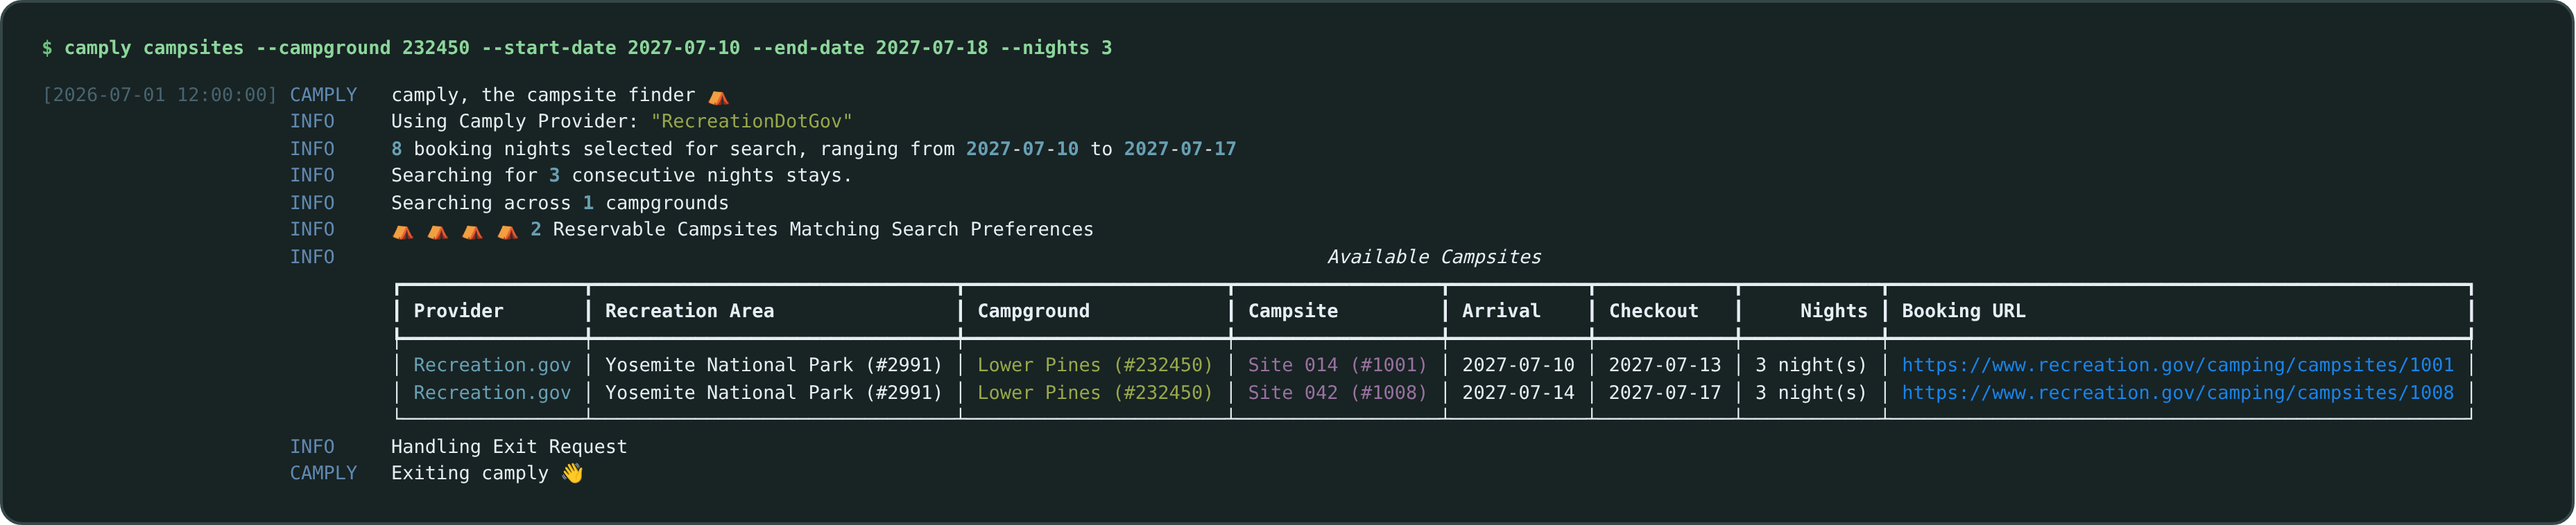
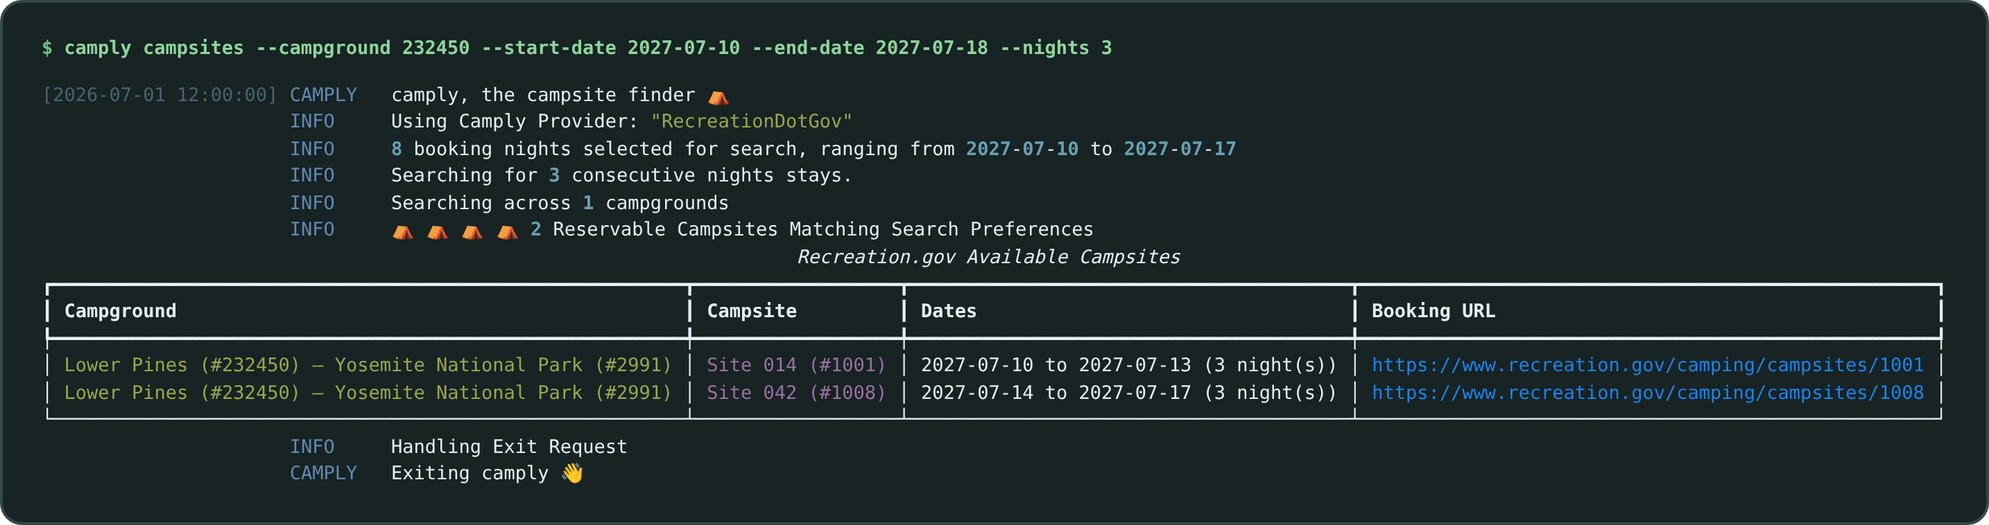
🎨 (cli): Print compact Rich result tables without log prefixes

diff --git a/src/frontend/tooling/verify-cli-snapshots.ts b/src/frontend/tooling/verify-cli-snapshots.ts
@@ -199,29 +199,29 @@ scenarios = [
         "name": "cli-providers",
         "command": "camply providers",
         "description": "Rich CLI provider catalog table and welcome/exit banners",
-        "html": capture(128, run_providers),
-        "expectedText": ["camply, the campsite finder", "Camping Providers", "RecreationDotGov", "Exiting camply"],
+        "html": capture(112, run_providers),
+        "expectedText": ["camply, the campsite finder", "Camping Providers", "RecreationDotGov (Recreation.gov)", "Exiting camply"],
     },
     {
         "name": "cli-discovery",
         "command": "camply campgrounds --rec-area 2991",
         "description": "Rich CLI campground discovery logs and results table",
-        "html": capture(148, run_discovery),
-        "expectedText": ["Using Camply Provider", "3 Matching Campgrounds Found", "Campgrounds", "Upper Pines", "Lower Pines"],
+        "html": capture(130, run_discovery),
+        "expectedText": ["Using Camply Provider", "3 Matching Campgrounds Found", "Recreation.gov Campgrounds", "Upper Pines", "Lower Pines"],
     },
     {
         "name": "cli-campsites",
         "command": "camply campsites --campground 232450 --start-date 2027-07-10 --end-date 2027-07-18 --nights 3",
         "description": "Rich CLI campsite availability logs and stays table",
-        "html": capture(172, run_campsites),
-        "expectedText": ["8 booking nights selected", "2 Reservable Campsites Matching Search Preferences", "Available Campsites", "Site 014", "Handling Exit Request"],
+        "html": capture(148, run_campsites),
+        "expectedText": ["8 booking nights selected", "2 Reservable Campsites Matching Search Preferences", "Recreation.gov Available Campsites", "Site 014", "Handling Exit Request"],
     },
     {
         "name": "cli-debug",
         "command": "camply --debug recreation-areas --search Yosemite --state CA",
         "description": "Rich CLI debug diagnostics and recreation area discovery table",
-        "html": capture(140, run_debug),
-        "expectedText": ["Setting up camply debugging", "Camply Version: 0.1.0", "Recreation Areas", "Yosemite National Park"],
+        "html": capture(112, run_debug),
+        "expectedText": ["Setting up camply debugging", "Camply Version: 0.1.0", "Recreation.gov Recreation Areas", "Yosemite National Park"],
     },
 ]
 print(json.dumps(scenarios))

diff --git a/src/camply/cli/output.py b/src/camply/cli/output.py
@@ -1,7 +1,6 @@
-"""Configure Rich CLI logging and render discovery and availability tables."""
+"""Configure Rich CLI logging and print discovery and availability tables."""
 
 import asyncio
-import io
 import logging
 import os
 import sys
@@ -10,7 +9,7 @@ from typing import TYPE_CHECKING
 
 import click
 import rich.traceback
-from rich.console import Console, ConsoleRenderable
+from rich.console import Console
 from rich.logging import RichHandler
 from rich.measure import Measurement
 from rich.table import Table
@@ -35,7 +34,7 @@ _DEFAULT_HEIGHT = 25
 
 
 class CamplyRichHandler(RichHandler):
-    """Rich logging handler that renders Rich tables and custom CAMPLY log levels."""
+    """Rich logging handler that styles custom CAMPLY log levels and prevents truncation."""
 
     def get_level_text(self, record: logging.LogRecord) -> Text:
         """Render the custom CAMPLY level with standard Rich info styling."""
@@ -43,30 +42,16 @@ class CamplyRichHandler(RichHandler):
             return Text.styled(record.levelname.ljust(8), "logging.level.info")
         return super().get_level_text(record)
 
-    def render_message(
-        self, record: logging.LogRecord, message: str
-    ) -> ConsoleRenderable:
-        """Pass Rich renderables such as Table through without string coercion."""
-        if isinstance(record.msg, ConsoleRenderable):
-            return record.msg
-        return super().render_message(record, message)
-
     def emit(self, record: logging.LogRecord) -> None:
-        """Ensure tables and non-interactive logs are not truncated at 80 columns."""
-        renderable = (
-            record.msg
-            if isinstance(record.msg, ConsoleRenderable)
-            else self.render_message(record, self.format(record))
-        )
+        """Ensure non-interactive logs are not wrapped or truncated at 80 columns."""
+        renderable = self.render_message(record, self.format(record))
         probe = self.console.options.update_width(_PROBE_WIDTH)
         needed = (
             Measurement.get(self.console, probe, renderable).maximum + _LOG_PREFIX_WIDTH
         )
         old_width, old_height = self.console._width, self.console._height
         if (
-            not self.console.is_terminal
-            or self.console.is_dumb_terminal
-            or isinstance(record.msg, ConsoleRenderable)
+            not self.console.is_terminal or self.console.is_dumb_terminal
         ) and self.console.width < needed:
             self.console._width = needed
             self.console._height = old_height or _DEFAULT_HEIGHT
@@ -77,37 +62,33 @@ class CamplyRichHandler(RichHandler):
                 self.console._width, self.console._height = old_width, old_height
 
 
-class CamplyPythonFormatter(logging.Formatter):
-    """Plain Python formatter that renders Rich tables when CAMPLY_LOG_HANDLER=python."""
-
-    def format(self, record: logging.LogRecord) -> str:
-        """Format standard messages or render Rich tables into plain text."""
-        if isinstance(record.msg, ConsoleRenderable):
-            buffer = io.StringIO()
-            probe_console = Console(file=buffer, no_color=True, highlight=False)
-            needed = Measurement.get(
-                probe_console,
-                probe_console.options.update_width(_PROBE_WIDTH),
-                record.msg,
-            ).maximum
-            render_console = Console(
-                file=buffer,
-                width=max(80, needed),
-                height=_DEFAULT_HEIGHT,
-                no_color=True,
-                highlight=False,
-            )
-            render_console.print(record.msg)
-            copied = logging.makeLogRecord(record.__dict__)
-            copied.msg = "\n" + buffer.getvalue().rstrip("\n")
-            copied.args = ()
-            return super().format(copied)
-        return super().format(record)
-
-
 def log_camply(message: str, *args: object) -> None:
     """Log a message at the custom CAMPLY notification level."""
     logger.log(CAMPLY_LOG_LEVEL, message, *args)
+
+
+def _stdout_console() -> Console:
+    """Return the active stdout Rich console or a plain stdout console fallback."""
+    for handler in logger.handlers:
+        if isinstance(handler, CamplyRichHandler) and not handler.console.stderr:
+            return handler.console
+    return Console(stderr=False, no_color=True, highlight=False)
+
+
+def print_table(table: Table) -> None:
+    """Print a Rich table directly to stdout without logging prefixes or truncation."""
+    console = _stdout_console()
+    probe = console.options.update_width(_PROBE_WIDTH)
+    needed = Measurement.get(console, probe, table).maximum
+    old_width, old_height = console._width, console._height
+    if console.width < needed:
+        console._width = needed
+        console._height = old_height or _DEFAULT_HEIGHT
+    try:
+        console.print(table)
+    finally:
+        if not console.record:
+            console._width, console._height = old_width, old_height
 
 
 def set_up_logging(*, debug: bool = False) -> logging.Logger:
@@ -124,7 +105,7 @@ def set_up_logging(*, debug: bool = False) -> logging.Logger:
         )
     handler_mode = os.environ.get("CAMPLY_LOG_HANDLER", "rich").strip().lower()
     if handler_mode == "python":
-        formatter: logging.Formatter = CamplyPythonFormatter(
+        formatter: logging.Formatter = logging.Formatter(
             "%(asctime)s [%(levelname)8s]: %(message)s"
         )
         stdout_handler: logging.Handler = logging.StreamHandler(sys.stdout)
@@ -187,14 +168,19 @@ def _format_parent(name: str | None, identifier: str | None) -> str:
     return ""
 
 
+def _format_location(name: str, city: str | None, state: str | None) -> str:
+    """Append concise city/state context to an entity name when available."""
+    place = ", ".join(value for value in (city, state) if value)
+    return f"{name} ({place})" if place else name
+
+
 def render_providers(
     entries: Mapping[str, tuple[type["BaseProvider"], "Provider"]],
 ) -> None:
-    """Log supported camping providers and capabilities in a Rich table."""
+    """Print supported camping providers and capabilities in a Rich table."""
     logger.info("camply currently supports %s providers:", len(entries))
     table = Table(title="Camping Providers")
     table.add_column("Provider", style="cyan", no_wrap=True)
-    table.add_column("Name", style="green", no_wrap=True)
     table.add_column("Capabilities", no_wrap=True)
     for name, (_, identity) in entries.items():
         areas = (
@@ -202,16 +188,16 @@ def render_providers(
             if name == "ReserveAmerica"
             else "recreation-area discovery"
         )
+        label = f"{name} ({identity.name})" if name != identity.name else name
         table.add_row(
-            name,
-            identity.name,
+            label,
             f"{areas}; campground discovery; campground availability",
         )
-    logger.info(table)
+    print_table(table)
 
 
 def render_discovery(results: Sequence[ProviderSearchResult], *, empty: str) -> None:
-    """Log unique discovery results to a Rich table and report display truncation."""
+    """Print unique discovery results in a Rich table and report display truncation."""
     ordered = sorted(
         {identity_key(result): result for result in results}.values(),
         key=identity_key,
@@ -220,53 +206,44 @@ def render_discovery(results: Sequence[ProviderSearchResult], *, empty: str) -> 
         logger.info(empty)
         return
     displayed = ordered[:DISPLAY_LIMIT]
+    provider_name = displayed[0].provider_name
     is_rec_area = all(
         result.entity_type == SearchEntityType.RECREATION_AREA for result in displayed
     )
     if is_rec_area:
         logger.info("%s recreation areas found.", len(displayed))
-        table = Table(title="Recreation Areas")
-        table.add_column("Provider", style="cyan", no_wrap=True)
+        table = Table(title=f"{provider_name} Recreation Areas")
         table.add_column("ID", style="magenta", no_wrap=True)
         table.add_column("Recreation Area", style="green", no_wrap=True)
-        table.add_column("Location", no_wrap=True)
         table.add_column("Booking URL", style="bright_blue", no_wrap=True)
         for result in displayed:
-            location = ", ".join(
-                value for value in (result.city, result.state, result.country) if value
-            )
             table.add_row(
-                result.provider_name,
                 result.recreation_area_id or "",
-                result.recreation_area_name or "",
-                location,
+                _format_location(
+                    result.recreation_area_name or "", result.city, result.state
+                ),
                 result.booking_url,
             )
     else:
         logger.info("%s Matching Campgrounds Found", len(displayed))
-        table = Table(title="Campgrounds")
-        table.add_column("Provider", style="cyan", no_wrap=True)
+        table = Table(title=f"{provider_name} Campgrounds")
         table.add_column("ID", style="magenta", no_wrap=True)
         table.add_column("Campground", style="green", no_wrap=True)
         table.add_column("Recreation Area", no_wrap=True)
-        table.add_column("Location", no_wrap=True)
         table.add_column("Booking URL", style="bright_blue", no_wrap=True)
         for result in displayed:
             rec_area = _format_parent(
                 result.recreation_area_name, result.recreation_area_id
             )
-            location = ", ".join(
-                value for value in (result.city, result.state, result.country) if value
-            )
             table.add_row(
-                result.provider_name,
                 result.campground_id or "",
-                result.campground_name or "",
+                _format_location(
+                    result.campground_name or "", result.city, result.state
+                ),
                 rec_area,
-                location,
                 result.booking_url,
             )
-    logger.info(table)
+    print_table(table)
     if len(ordered) > DISPLAY_LIMIT:
         logger.warning(
             "Showing 50 results; more results exist. Narrow --search or --state."
@@ -274,7 +251,7 @@ def render_discovery(results: Sequence[ProviderSearchResult], *, empty: str) -> 
 
 
 def render_stays(stays: list["AvailabilityStay"]) -> None:
-    """Log qualifying stays, provider identities and booking links in a Rich table."""
+    """Print qualifying stays and booking links in a Rich table."""
     emoji = "⛺" if stays else "❌"
     logger.info(
         "%s%s Reservable Campsites Matching Search Preferences",
@@ -284,14 +261,11 @@ def render_stays(stays: list["AvailabilityStay"]) -> None:
     if not stays:
         logger.info("No matching campsite stays found in this check.")
         return
-    table = Table(title="Available Campsites")
-    table.add_column("Provider", style="cyan", no_wrap=True)
-    table.add_column("Recreation Area", no_wrap=True)
+    provider_name = stays[0].campground.provider_name
+    table = Table(title=f"{provider_name} Available Campsites")
     table.add_column("Campground", style="green", no_wrap=True)
     table.add_column("Campsite", style="magenta", no_wrap=True)
-    table.add_column("Arrival", no_wrap=True)
-    table.add_column("Checkout", no_wrap=True)
-    table.add_column("Nights", justify="right", no_wrap=True)
+    table.add_column("Dates", no_wrap=True)
     table.add_column("Booking URL", style="bright_blue", no_wrap=True)
     for stay in stays:
         target = stay.campground
@@ -299,16 +273,14 @@ def render_stays(stays: list["AvailabilityStay"]) -> None:
             target.recreation_area_name, target.recreation_area_id
         )
         campground_label = f"{target.campground_name} (#{target.campground_id})"
+        if rec_area:
+            campground_label = f"{campground_label} — {rec_area}"
         campsite_label = f"{stay.campsite_name} (#{stay.campsite_id})"
         nights = (stay.checkout - stay.arrival).days
         table.add_row(
-            target.provider_name,
-            rec_area,
             campground_label,
             campsite_label,
-            stay.arrival.isoformat(),
-            stay.checkout.isoformat(),
-            f"{nights} night(s)",
+            f"{stay.arrival.isoformat()} to {stay.checkout.isoformat()} ({nights} night(s))",
             stay.booking_url,
         )
-    logger.info(table)
+    print_table(table)

diff --git a/tests/cli/test_search.py b/tests/cli/test_search.py
@@ -299,8 +299,8 @@ def test_discovery_normalizes_search_state_and_requests_probe(
     assert result.exit_code == 0, result.output
     assert 'Searching for Recreation Areas: "Yosemite"' in result.stdout
     assert "1 recreation areas found." in result.stdout
-    assert "Recreation Areas" in result.stdout
-    assert "│ Recreation.gov │ park │ Yosemite" in result.stdout
+    assert "Recreation.gov Recreation Areas" in result.stdout
+    assert "│ park │ Yosemite" in result.stdout
     assert transcript.searches[0][1] == "Yosemite"
     assert transcript.searches[0][2] == {
         "state": "CA",
@@ -317,7 +317,9 @@ def test_display_limit_distinguishes_exactly_fifty(
     transcript.results = [campground(f"{index:03}") for index in reversed(range(count))]
     result = CliRunner().invoke(cli, ["campgrounds"])
     assert result.exit_code == 0, result.output
-    assert result.stdout.count("│ Recreation.gov │ ") == min(count, 50)
+    assert sum(line.startswith("│ 0") for line in result.stdout.splitlines()) == min(
+        count, 50
+    )
     assert ("more results exist" in result.stderr) is truncated
     if count:
         assert "50 Matching Campgrounds Found" in result.stdout
@@ -493,10 +495,10 @@ def test_real_command_prints_sliding_stays_and_continues_after_matches(
     )
     assert result.exit_code == 1  # Simulated cancellation after two successful cycles.
     assert transcript.checks == [("001", date(2027, 7, 9), date(2027, 7, 13))] * 2
-    assert "Available Campsites" in result.stdout
+    assert "Recreation.gov Available Campsites" in result.stdout
     assert "2 Reservable Campsites Matching Search Preferences" in result.stdout
-    assert result.stdout.count("│ 2027-07-09 │ 2027-07-12 │ 3 night(s) │") == 2
-    assert result.stdout.count("│ 2027-07-10 │ 2027-07-13 │ 3 night(s) │") == 2
+    assert result.stdout.count("│ 2027-07-09 to 2027-07-12 (3 night(s)) │") == 2
+    assert result.stdout.count("│ 2027-07-10 to 2027-07-13 (3 night(s)) │") == 2
     assert "Site One (#site-01)" in result.stdout
     assert "National Park (#parent)" in result.stdout
     assert "https://booking.example.invalid/campgrounds/001" in result.stdout
@@ -525,8 +527,8 @@ def test_weekend_and_repeated_weekday_union_reaches_matching(
         ],
     )
     assert result.exit_code == 1
-    assert result.stdout.count("│ 2027-07-09 │ 2027-07-12 │") == 2
-    assert "│ 2027-07-10 │ 2027-07-13 │" not in result.stdout
+    assert result.stdout.count("│ 2027-07-09 to 2027-07-12 (3 night(s)) │") == 2
+    assert "│ 2027-07-10 to 2027-07-13 (3 night(s)) │" not in result.stdout
 
 
 def test_repeated_windows_merge_without_gap_or_duplicate_requests(
@@ -725,8 +727,9 @@ def test_rich_and_python_log_handlers_log_banners_and_tables(
     assert 'Using Camply Provider: "RecreationDotGov"' in result.stdout
     assert 'Searching for Campgrounds: "Pine"' in result.stdout
     assert "1 Matching Campgrounds Found" in result.stdout
-    assert "Campgrounds" in result.stdout
-    assert "│ Recreation.gov │ 001 │ Pine Camp  │" in result.stdout
+    assert "Recreation.gov Campgrounds" in result.stdout
+    assert "│ 001 │ Pine Camp (CA) │" in result.stdout
+    assert any(line.startswith("┏") for line in result.stdout.splitlines())
     assert "Exiting camply 👋" in result.stdout
     assert "Setting up camply debugging" in result.stderr
     assert "Camply Version:" in result.stderr

diff --git a/docs/CHECKLIST.md b/docs/CHECKLIST.md
@@ -11,7 +11,7 @@ This checklist tracks the granular progress of `camply`. Agents **MUST** update 
 - [x] Restore current-provider discovery and campground-based availability through shared base-only capabilities: exact metadata lookup, complete area expansion, paired date/day matching, continuous console output and cancellation cleanup.
 - [x] Verify initial CLI acceptance with full test/lint/type/docs gates and installed wheel/sdist checks on Python 3.11/3.14; keep all D01–D13 deferred.
 - [x] Separate CLI commands/groups into dedicated modules, centralize reusable options and share discovery/output/execution helpers while preserving lazy imports and command behavior.
-- [x] Add `camply` v1-style Rich CLI logging (`CAMPLY` log level, welcome/exit banners, debug diagnostics, `CAMPLY_LOG_HANDLER=python` fallback, and stdout/stderr stream separation), log provider/discovery/availability results in Rich `Table`s without truncation, and verify CLI terminal screenshots in Chromium and `pytest`.
+- [x] Add `camply` v1-style Rich CLI logging (`CAMPLY` log level, welcome/exit banners, debug diagnostics, `CAMPLY_LOG_HANDLER=python` fallback, and stdout/stderr stream separation), print provider/discovery/availability results in compact Rich `Table`s without truncation, and verify CLI terminal screenshots in Chromium and `pytest`.
 - [x] Stabilize snapshot capture by waiting for visible image/font readiness, cover delayed lazy-image loading without network-idle waits, and refresh the complete desktop light profile baseline from macOS CI.
 - [ ] Brainstorm CLI lifecycle and `--continuous` / `--search-forever` / `--search-once`; intended default is search forever. Deferred TODO implementation is outside the initial release gate.
 
